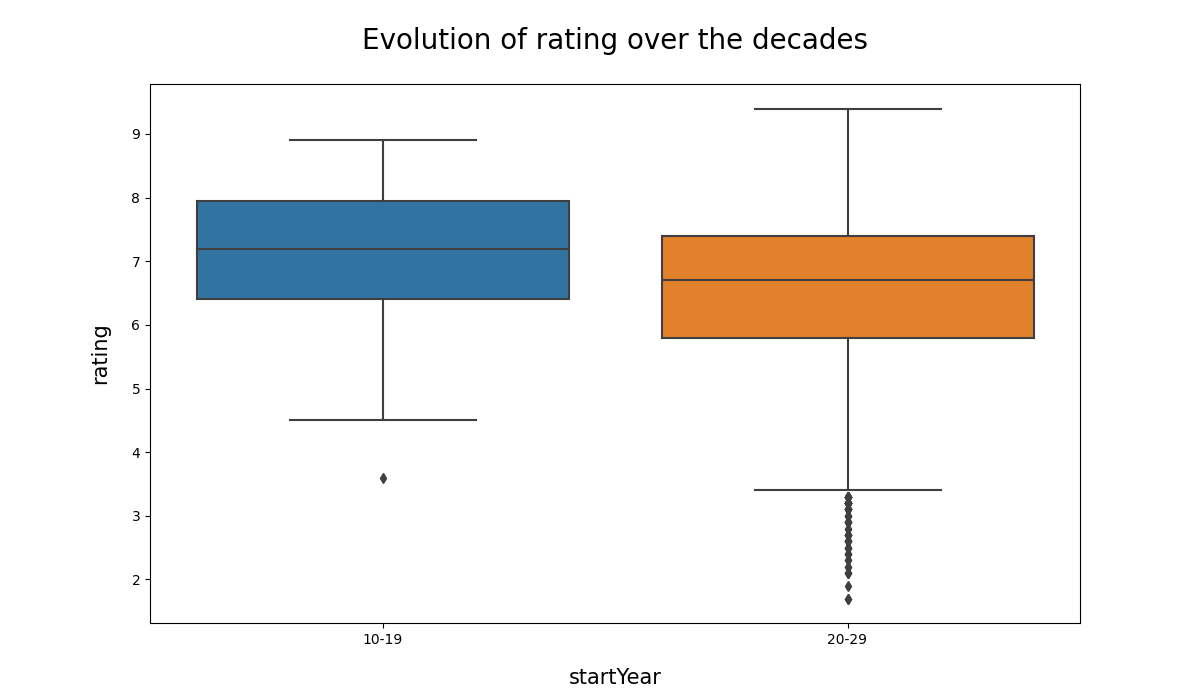
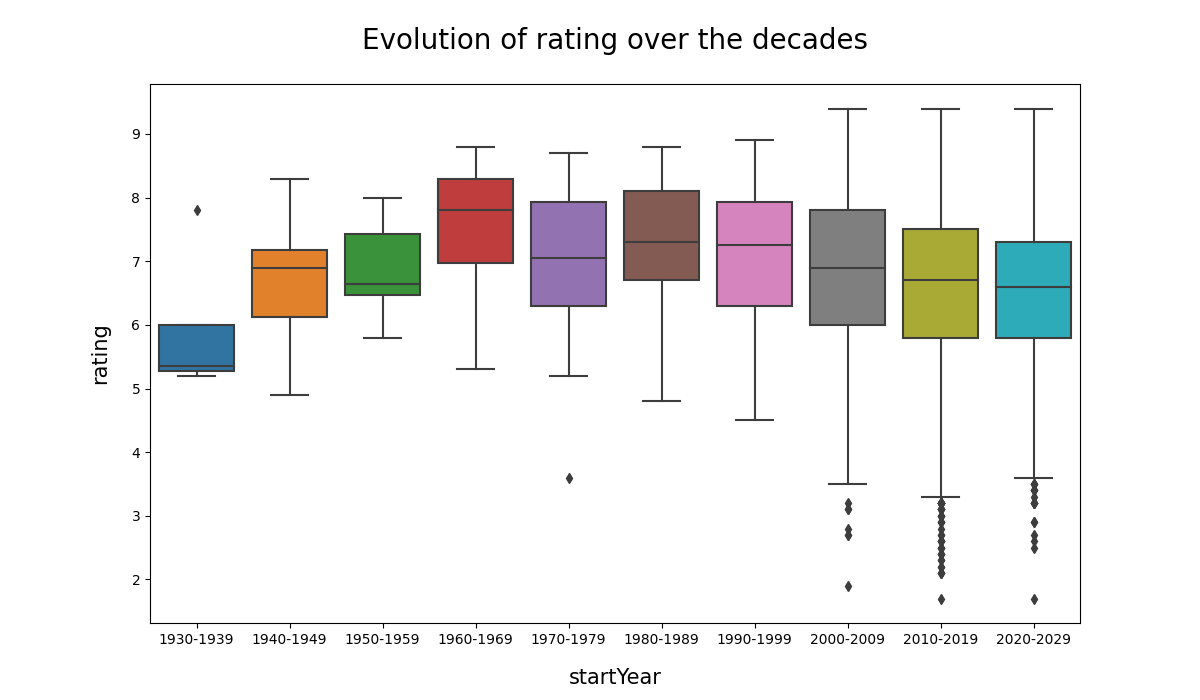
Correct graphics

diff --git a/src/exploration.py b/src/exploration.py
@@ -29,15 +29,13 @@ def get_decade(year):
 df_copy = df.copy()
 df_copy = df_copy.astype({'startYear': str})
 
-df_copy['startYear'] = df_copy['startYear'].apply(lambda x: get_decade(x[:-2]) if x != "Not available" else "Not available")
+df_copy['startYear'] = df_copy['startYear'].apply(lambda x: get_decade(x) if x != "Not available" else "Not available")
 
 df_copy = df_copy[df_copy.startYear != "Not available"]
 df_copy = df_copy[df_copy.rating != "Not available"]
 
 df_copy = df_copy.sort_values('startYear')
 df_copy["rating"] = df_copy["rating"].astype(float)
-
-print(df_copy['startYear'])
 
 fig = plt.figure()
 sns.boxplot(x=df_copy["startYear"], y=df_copy["rating"])
@@ -60,7 +58,7 @@ ser = ser.iloc[[0,1,2,3,4,5,6,7,8,-1]]
 fig = plt.figure()
 ax = fig.add_subplot(111)
 
-ax.pie(ser.values, labels=ser.index, startangle=90, autopct=lambda x:int(x/100.*ser.sum()), pctdistance=0.8, counterclock=False)
+ax.pie(ser.values, labels=ser.index, startangle=90, autopct=lambda x:int(x/100.*ser.sum()+0.1), pctdistance=0.8, counterclock=False)
 ax.legend()
 plt.axis('equal')
 plt.title('Most used languages', y=1.05, fontsize=20)
@@ -70,7 +68,7 @@ plt.close(fig)
 
 # Distribution of origin countries Pie Chart
 df_copy = df.copy()
-df_copy = df_copy[df_copy.language != "Not available"] 
+df_copy = df_copy[df_copy.originCountry != "Not available"] 
 
 ser = df_copy.groupby('originCountry')['originCountry'].count()
 ser = ser.sort_values(ascending=False)
@@ -80,7 +78,7 @@ ser = ser.iloc[[0,1,2,3,4,5,6,7,8,-1]]
 fig = plt.figure()
 ax = fig.add_subplot(111)
 
-ax.pie(ser.values, labels=ser.index, startangle=90, autopct=lambda x:int(x/100.*ser.sum()), pctdistance=0.8, counterclock=False)
+ax.pie(ser.values, labels=ser.index, startangle=90, autopct=lambda x:int(x/100.*ser.sum()+0.1), pctdistance=0.8, counterclock=False)
 ax.legend()
 plt.axis('equal')
 plt.title('Most common origin countries', y=1.05, fontsize=20)
